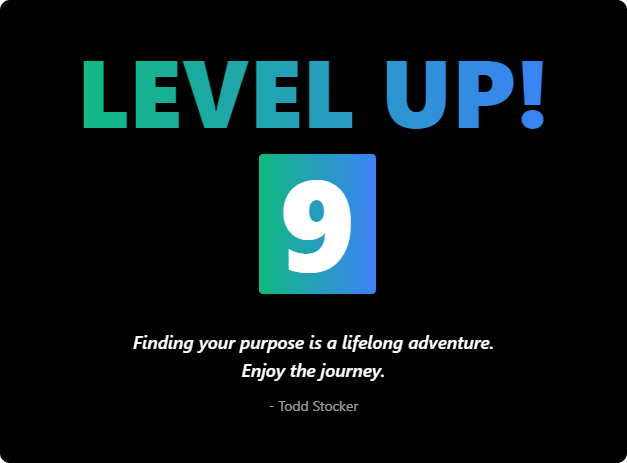
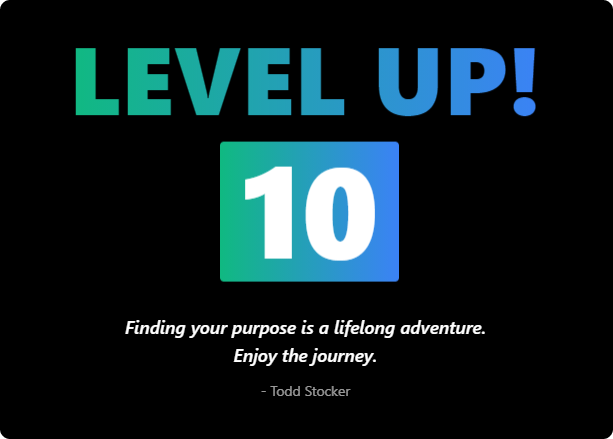
v0.10 - Level Up Formula + Level Up Screen

diff --git a/pages/new.js b/pages/new.js
@@ -18,8 +18,16 @@ export default function updates() {
         </div>
         <div className="timeline z-10 grid grid-cols-3">
           {/* start  */}
+          <CardLUpdate
+            date="Jul 1, 2021"
+            title="It's Time To Level Up"
+            desc="Our leveling experience now follows a linear growth pattern, and you can now enjoy dynamic level up screens to help you enjoy your journey!"
+            img_url="updates/0.10.png"
+            button_url="/player"
+            version="v.10"
+          />
           <CardRUpdate
-            date="June 30, 2021"
+            date="Jun 30, 2021"
             title="Real Time Rewards"
             desc="You don't need to refresh anymore - keep your app open to see your wins announced in real time with a random loot box! Click on it to unlock an unique celebratory gif - try to collect them all!"
             img_url="updates/0.09.png"
@@ -27,7 +35,7 @@ export default function updates() {
             version="v.09"
           />
           <CardLUpdate
-            date="June 29, 2021"
+            date="Jun 29, 2021"
             title="Seasonal Leaderboard Rankings"
             desc="Season 1 is coming! Every season will last 3 months, and exp / levels earned within each season and overall will be ranked separately on the leaderboard for fair and friendly competition."
             img_url="updates/0.08.png"
@@ -35,7 +43,7 @@ export default function updates() {
             version="v.08"
           />
           <CardRUpdate
-            date="June 28, 2021"
+            date="Jun 28, 2021"
             title="Grow Together With Family"
             desc="See what your friends are up to and embark on adventures together with a community that cares about your growth journey."
             img_url="updates/0.07.png"
@@ -43,7 +51,7 @@ export default function updates() {
             version="v.07"
           />
           <CardLUpdate
-            date="June 26, 2021"
+            date="Jun 26, 2021"
             title="Celebrate Your Wins"
             desc="Every time you accomplish a win, a randomized gif will spawn!
             Remember to share your wins to get support and start meaningful
@@ -53,7 +61,7 @@ export default function updates() {
             version="v.06"
           />
           <CardRUpdate
-            date="June 18, 2021"
+            date="Jun 18, 2021"
             title="Table Magic"
             desc="We've beautified your recent win table. Easily view your latest 10
             wins and look back into historical entries to visualize how you've
@@ -63,7 +71,7 @@ export default function updates() {
             version="v.05"
           />
           <CardLUpdate
-            date="June 17, 2021"
+            date="Jun 17, 2021"
             title="Data Validation"
             desc="We want to help you understand your data easier - so we created a
             wizard that walks you through your Notion API connection and
@@ -75,7 +83,7 @@ export default function updates() {
             version="v.04"
           />
           <CardRUpdate
-            date="June 14, 2021"
+            date="Jun 14, 2021"
             title="Compare Your Growth"
             desc="Graphs are now functional! Visualize your wins from the last week
             and compare your stats to how you're doing this week."
@@ -84,7 +92,7 @@ export default function updates() {
             version="v.03"
           />
           <CardLUpdate
-            date="June 13, 2021"
+            date="Jun 13, 2021"
             title="Improved Onboarding Experience"
             desc="We wanted to make onboarding easier, so we've built a step by step
           user journey to help you get started, faster! We've also improved
@@ -95,7 +103,7 @@ export default function updates() {
           />
           <div className="col-start-1 col-end-4 text-center">
             <span className="text-lg font-semibold inline-block py-1 mb-2 px-2 rounded text-emerald-600 bg-emerald-200 uppercase last:mr-0 mr-1">
-              June 12, 2021
+              Jun 12, 2021
             </span>
           </div>
           <div className="col-start-1 col-end-4 my-4 p-8 bg-primary-2 rounded">

diff --git a/pages/account.js b/pages/account.js
@@ -28,6 +28,7 @@ function Card({ title, description, footer, children }) {
 
 export default function Account() {
   const [loading, setLoading] = useState(true);
+  const [saveLoading, setSaveLoading] = useState(false);
   const router = useRouter();
   const [full_name, setName] = useState(null);
   const [notion_api_secret, setNotionAPISecret] = useState(null);
@@ -76,7 +77,7 @@ export default function Account() {
 
   async function updateProfile({ full_name, notion_api_secret, notion_success_plan}) {
     try {
-      setLoading(true)
+      setSaveLoading(true)
       const user = supabase.auth.user()
       if(!notion_success_plan.includes('-')) {
       const url = notion_success_plan;
@@ -250,9 +251,9 @@ export default function Account() {
                     variant="prominent"
                     type="submit"
                     onClick={() => updateProfile({ full_name, notion_api_secret, notion_success_plan })}
-                    disabled={loading}
+                    disabled={saveLoading}
                     >
-                      {loading ? 'Loading ...' : 'Save & Test Connection'}
+                      {saveLoading ? 'Loading ...' : 'Save & Test Connection'}
           </Button></Card>
           
           </div>
@@ -272,15 +273,15 @@ export default function Account() {
               {/*header*/}
               <div className="flex items-start justify-between p-5 border-b border-solid border-blueGray-200 rounded-t bg-gradient-to-r from-emerald-500 to-blue-500">
                 <h3 className="text-2xl font-semibold text-white">
-                🕺 Woohoo! One quest down!
+                🕺 Woohoo! You're almost there!
                 </h3>
               </div>
               {/*body*/}
               <div className="relative p-6 text-blueGray-500">
-                <img src="img/hi-five.gif" height="auto" className="w-3/4 mx-auto pb-2" />
+                <img src="img/hi-five.gif" height="auto" className="h-96 mx-auto pb-2" />
               <div className="text-center">
                   <p className="text-xl mt-5 text-primary-2 font-semibold">
-                    No time to waste - let's connect!
+                    There's no time to waste - let's connect!
                   </p>
                   </div>
               </div>

diff --git a/pages/404.js b/pages/404.js
@@ -5,7 +5,7 @@ export default function Custom404() {
 
     return( 
         <section className="justify-center">
-        <div className="max-w-6xl mx-auto py-8 sm:pt-24 px-4 sm:px-6 lg:px-8 my-auto w-full flex flex-col">
+        <div className="animate-fade-in-up max-w-6xl mx-auto py-8 sm:pt-24 px-4 sm:px-6 lg:px-8 my-auto w-full flex flex-col">
           <div className="pb-10">
             <h1 className="text-4xl font-extrabold text-center sm:text-6xl bg-clip-text text-transparent bg-gradient-to-r from-emerald-500 to-blue-500 pb-5">
               Page Not Found
@@ -17,7 +17,7 @@ export default function Custom404() {
             <img className="w-3/5 m-auto" src='/img/notfound.png'/>
             <Link href="/">
             <Button className="w-auto mx-auto my-10"
-              variant="slim"
+              variant="prominent"
               >
               Take Me Home!
           </Button>

diff --git a/pages/index.js b/pages/index.js
@@ -282,7 +282,7 @@ export default function HomePage() {
                     <h1 className="text-2xl font-bold sm:text-3xl bg-clip-text text-transparent bg-gradient-to-r from-emerald-500 to-blue-500">
                       Season 1 Starts In...
                     </h1>
-                    <h1 className="rounded-lg pt-5 w-3/4 lg:w-full mx-auto text-xl font-semibold text-center lg:text-2xl bg-clip-text text-transparent bg-gradient-to-r from-emerald-500 to-blue-500">
+                    <h1 className=" rounded-lg pt-5 w-3/4 lg:w-full mx-auto text-xl font-semibold text-center lg:text-2xl bg-clip-text text-transparent bg-gradient-to-r from-emerald-500 to-blue-500">
                       <Countdown date="2021-07-02T21:00:00-05:00" />
                     </h1>
                     {/* <p className="text-xl text-accents-6 text-center sm:text-2xl max-w-2xl m-auto">

diff --git a/pages/signin.js b/pages/signin.js
@@ -96,7 +96,7 @@ const SignIn = () => {
             )}
 
             {!showPasswordInput && (
-              <form onSubmit={handleSignin} className="flex flex-col space-y-4">
+              <form onSubmit={handleSignin} className="animate-fade-in-up flex flex-col space-y-4">
                 <Input
                   type="email"
                   placeholder="Email"
@@ -116,7 +116,7 @@ const SignIn = () => {
             )}
 
             {showPasswordInput && (
-              <form onSubmit={handleSignin} className="flex flex-col space-y-4">
+              <form onSubmit={handleSignin} className="animate-fade-in-up flex flex-col space-y-4">
                 <Input
                   type="email"
                   placeholder="Email"

diff --git a/components/ui/Footer/Footer.js b/components/ui/Footer/Footer.js
@@ -9,7 +9,7 @@ export default function Footer() {
     <footer className="mx-auto max-w-8xl px-6 bg-primary-1">
       <div className="py-12 space-y-4 bg-primary-1">
         <div className="text-center">
-          <span className="text-primary align-middle font-semibold">Version 0.09</span>
+          <span className="text-primary align-middle font-semibold">Version 0.10</span>
           <a href="https://co-x3.com/?utm_source=makeworkfun" aria-label="Co-x3 Family">
             <img
               src="/img/co-x3logo_white_full.png"

diff --git a/pages/signup.js b/pages/signup.js
@@ -51,7 +51,7 @@ const SignUp = () => {
         <div className="flex justify-center pb-12 ">
             <img src="logo-white.svg"  width="64px" height="64px" />
         </div>
-        <form onSubmit={handleSignup} className="flex flex-col space-y-4">
+        <form onSubmit={handleSignup} className="animate-fade-in-up flex flex-col space-y-4">
           {message.content && (
             <div
               className={`${
